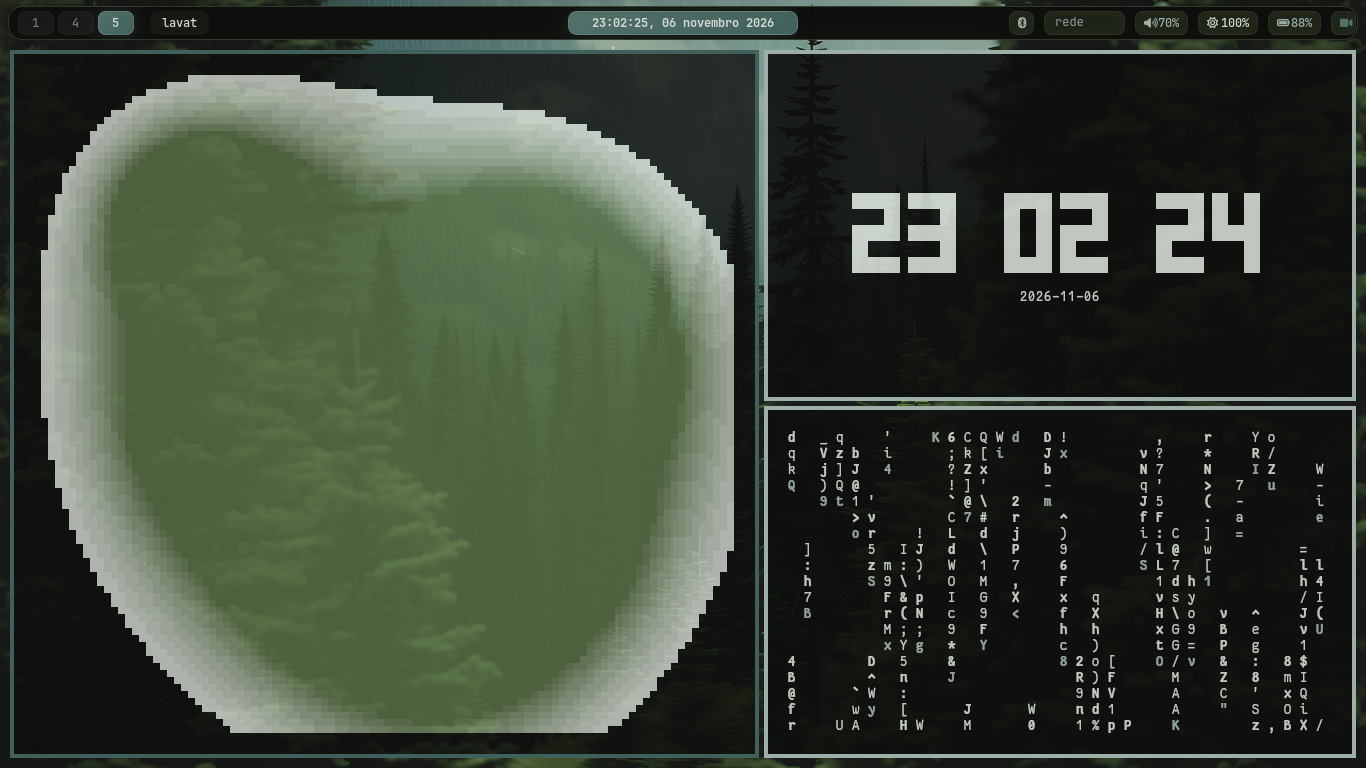
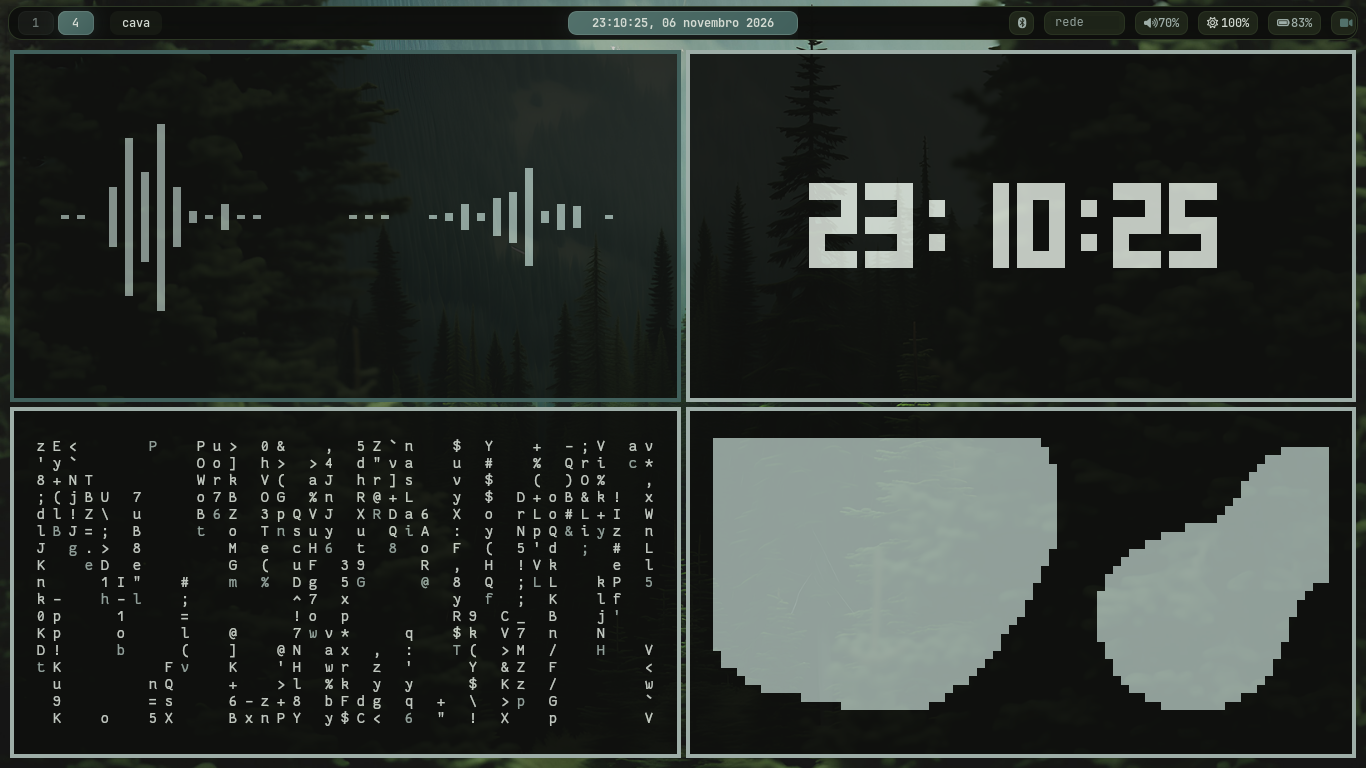
Screenshot: atualizar cena do workspace 4

diff --git a/README.md b/README.md
@@ -12,7 +12,7 @@ apenas `~/.config/mango`.
 
 ## Captura
 
-![Mangowm com Waybar, lavat, tty-clock e cmatrix](screenshots/mango-waybar.png)
+![Mangowm com Waybar, cava, tty-clock, cmatrix e lavat](screenshots/mango-waybar.png)
 
 *Waybar do mangowm com a paleta gerada a partir do wallpaper atual.*
 
